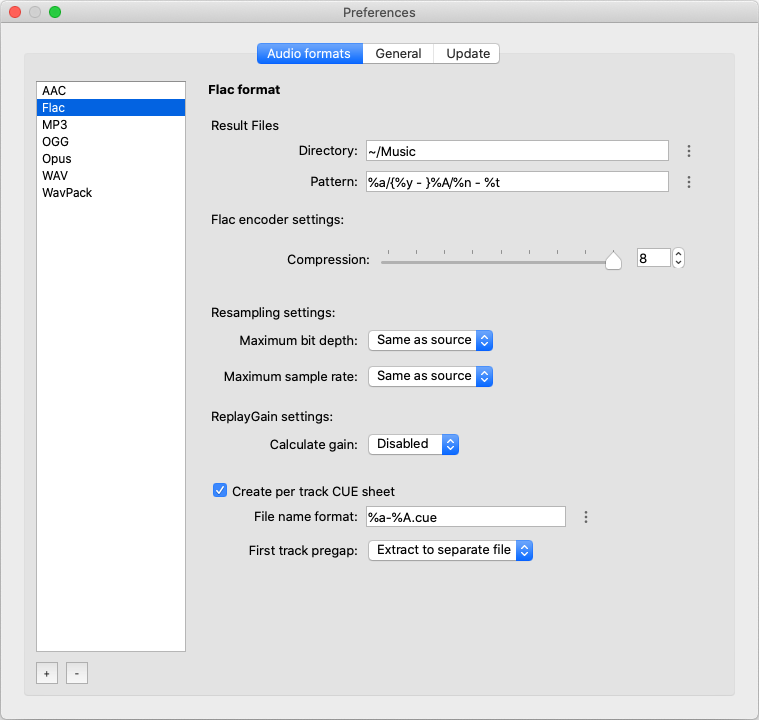
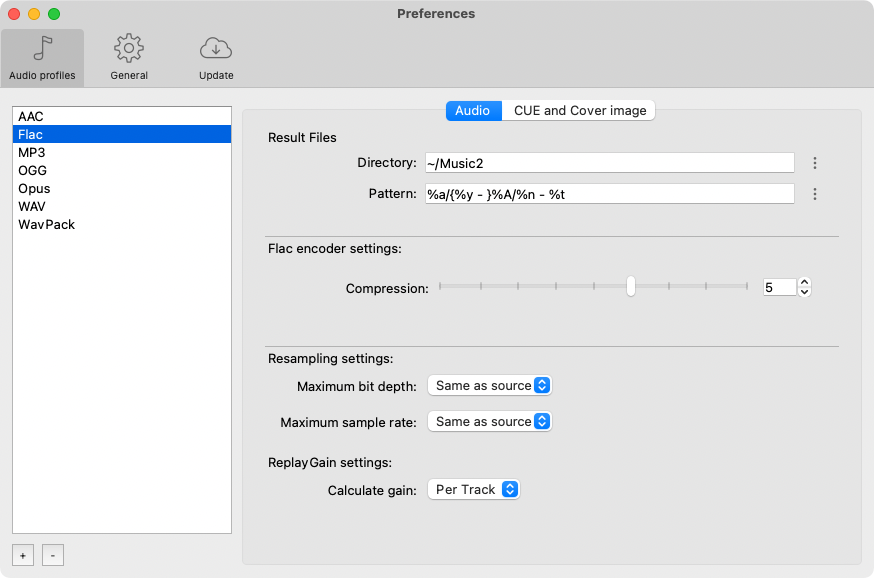
Release 8.0.0

diff --git a/screenshots/index.html b/screenshots/index.html
@@ -17,7 +17,12 @@ screenshots:
 
   - preview:     flacon-config-small.png
     full:        flacon-config.png
-    description: Preferences dialog
+    description: Preferences dialog - Audio settings
+
+  - preview:     preferences-cue-cover.png
+    full:        preferences-cue-cover.png
+    description: Preferences dialog - CUE & Cover settings
+
 ---
 
 {% for scr in page.screenshots %}

diff --git a/changelog/_posts/2021-11-14-Flacon-8.0.0.md b/changelog/_posts/2021-11-14-Flacon-8.0.0.md
@@ -1,0 +1,16 @@
+---
+layout: default
+version: 8.0.0
+apple: true
+apple_legacy: false
+---
+
+* Added support for [pre-emphasis CD images](https://wiki.hydrogenaud.io/index.php?title=Pre-emphasis). 
+* Added support for embedded CUE for input and output FLAC files. If your FLAC file contains a CUE in the metadata, then the program can use it.
+* You can not only copy the cover image to a file, but also embed it in the output FLAC files.
+* Improved the preferences dialog. The settings are divided into separate tabs.
+* Now you can manually input the Disc ID in case the CUE file does not contain one.
+* Use https://gnudb.gnudb.org by default as CDDB server.
+* Fixed: When converting audio, the image is not copied to the destination folder.
+* A number of minor improvements and bug fixes.
+* Translations updated.
